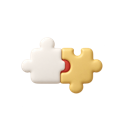
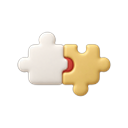
아이콘 크기 맞춤 · 기록 없는 다시보기 숨김 · 미리보기를 덮어쓰기로
아이콘: 돋보기는 그림이 캔버스의 77%를 채우는데 나머지는 52~70%라
작아 보였다. 흐린 그림자에 휘둘리지 않게 또렷한 부분(알파>40)만 재서
돋보기와 같은 94px 로 맞추고 가운데에 놓았다. 캐시 판 번호 v3.

다시 보기: 레벨 테스트로 건너뛴 미션은 완료로 잡히지만 기록이 없다.
누르면 '남아 있는 기록이 없어요' 토스트만 떴다 — 버튼 자체를 숨긴다.

미리보기: 목록 안에 끼어들어 아래 미션을 통째로 밀어냈다. 행마다 자리
기준을 두고 패널을 띄워 덮게 했다. 열린 행만 위로 올린다.

diff --git a/index.html b/index.html
@@ -781,6 +781,7 @@ Google로 계속하기
 <div style="flex:1;height:1px;background:#ece4e2"></div>
 </div>
 </sc-if>
+<div style="{{ m.wrapStyle }}">
 <div style="{{ m.rowStyle }}">
 <div onClick="{{ m.tap }}" style="{{ m.nodeStyle }}">
 <sc-if value="{{ m.hasIcon }}" hint-placeholder-val="{{ false }}">
@@ -803,7 +804,7 @@ Google로 계속하기
 </div>
 </div>
 <sc-if value="{{ m.open }}" hint-placeholder-val="{{ false }}">
-<div onClick="{{ stopClick }}" style="margin:12px 0 4px;padding:18px;border:2px solid #b62a22;border-radius:18px;background:#fdf2f0;display:flex;flex-direction:column;gap:12px;animation:plIn .22s ease-out both">
+<div onClick="{{ stopClick }}" style="position:absolute;top:100%;left:0;right:0;margin:12px 0 4px;padding:18px;border:2px solid #b62a22;border-radius:18px;background:#fdf2f0;box-shadow:0 18px 40px #2e121126;display:flex;flex-direction:column;gap:12px;animation:plIn .22s ease-out both">
 <div style="display:flex;flex-direction:column;gap:4px">
 <span style="font-weight:600;font-size:11px;letter-spacing:.06em;color:#b62a22">{{ m.stage }} · 미션 {{ m.num }}</span>
 <span style="font-weight:800;font-size:18px;line-height:1.4;color:#2e1211;text-wrap:pretty">{{ m.title }}</span>
@@ -843,6 +844,7 @@ Google로 계속하기
 </sc-if>
 </div>
 </sc-if>
+</div>
 </div>
 </sc-for>
 
@@ -3860,6 +3862,8 @@ class Component extends DCLogic {
           // 행이 부모 가득(모바일 358px)이면 지그재그 ±68 이 그대로 넘쳐 가로 스크롤이 생긴다.
           // 행 안에는 노드 하나뿐이라 내용 너비로 줄이고 가운데 두면 넘침 없이 같은 모양이 나온다.
           rowStyle: { display: "flex", justifyContent: "center", width: "max-content", marginLeft: "auto", marginRight: "auto", transform: "translateX(" + zig + "px)", padding: this.stageIcon(m.s) ? "11px 0" : "7px 0" },
+          // 미리보기는 아래를 밀지 않고 덮는다 — 열린 행만 위로 올린다
+          wrapStyle: { position: "relative", zIndex: this.state.openM === i ? 5 : "auto" },
           nodeStyle: this.stageIcon(m.s) ? {
             position: "relative", width: "74px", height: "74px",
             display: "flex", alignItems: "center", justifyContent: "center", cursor: "pointer",
@@ -3895,7 +3899,8 @@ class Component extends DCLogic {
           partnerMissionNote: done ? "" : "아직 하지 않은 미션이에요.",
           startLabel: dayLock && i < unlocked ? "미리 시작" : locked ? (isLast ? (ms.length - 1) + "개 미션을 모두 마치면 열려요" : "이전 미션을 완료해야 열려요") : done ? "다시 하기" : (isLast ? "회고 열어보기" : "미션 시작"),
           // 완료한 미션은 다시 보기(무료)와 다시 하기(보석)로 나눈다
-          canReview: done && !locked && !(dayLock && i < unlocked),
+          // 레벨 테스트로 건너뛴 미션은 완료로 잡히지만 기록이 없다 — 보여줄 게 없으면 버튼도 없다
+          canReview: done && !locked && !(dayLock && i < unlocked) && !!((this.state.records || {})[k] || [])[i],
           review: () => { this.sfx("tap"); this.openReview(i); },
           showFreeIn: !pv && dayLock && i < unlocked,
           showCost: !pv && ((dayLock && i < unlocked) || (done && !locked)),
@@ -5403,7 +5408,7 @@ class Component extends DCLogic {
   // assets 는 하루를 캐시하므로(vercel.json), 그림을 갈면 이 숫자를 올려야
   // 전에 들어왔던 사람 화면에서도 새 그림이 나온다.
   stagePath(slug) {
-    return "assets/stage-" + slug + ".png?v=2";
+    return "assets/stage-" + slug + ".png?v=3";
   }
   // 효과음 — 음원 파일 없이 Web Audio로 합성한다.
   // 실제 음원으로 바꿀 때: assets/sfx/<name>.mp3 를 넣고 tone() 대신 new Audio(...).play() 로 교체.
